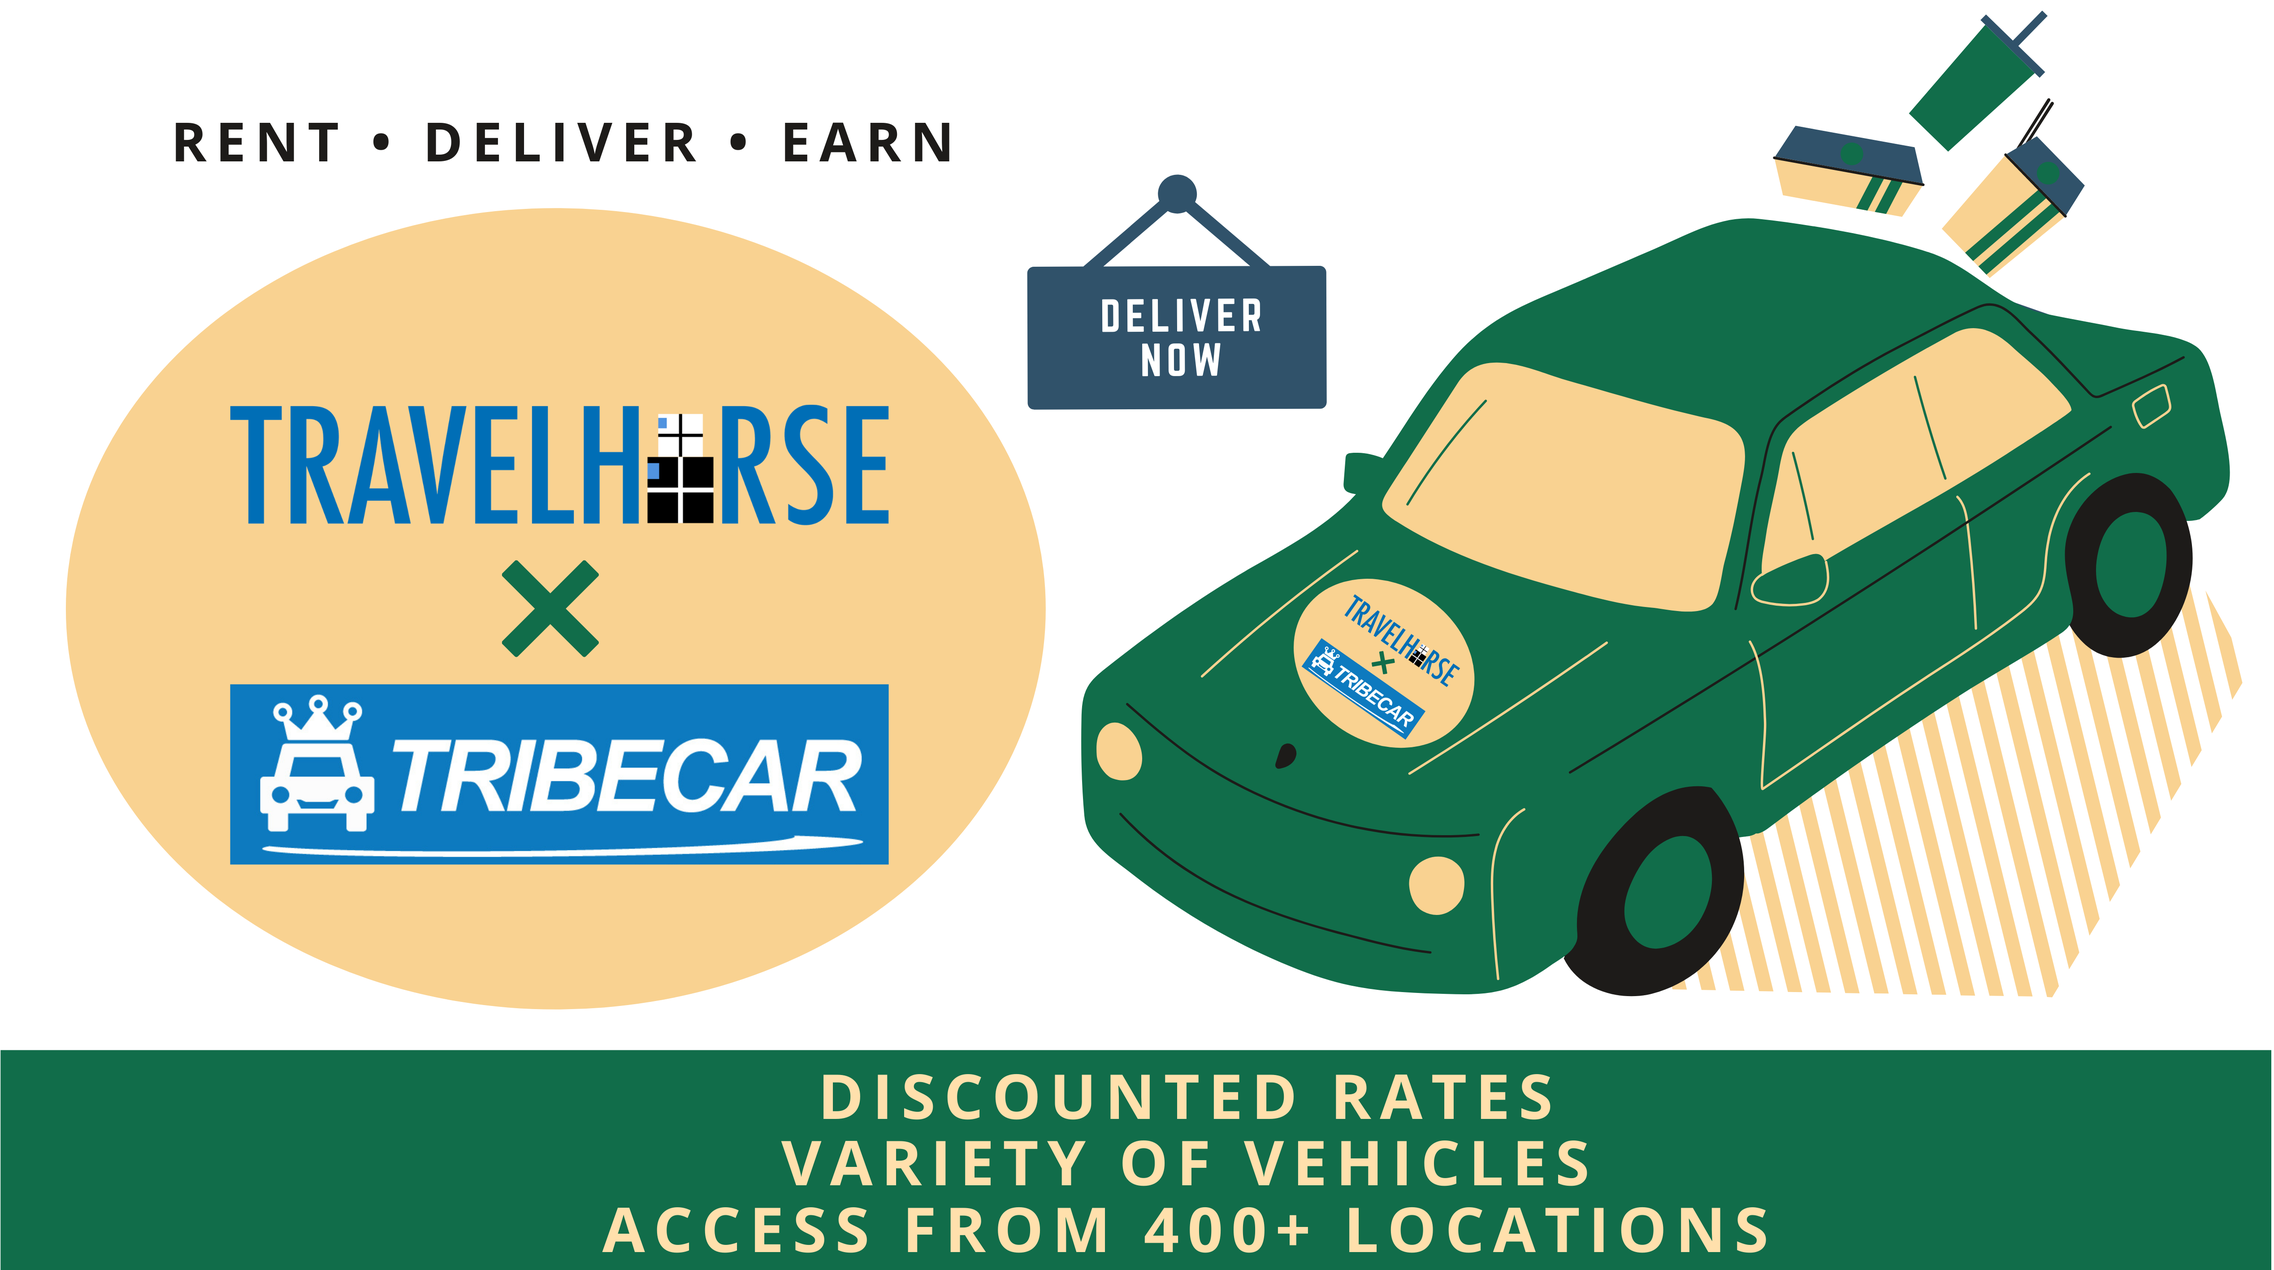
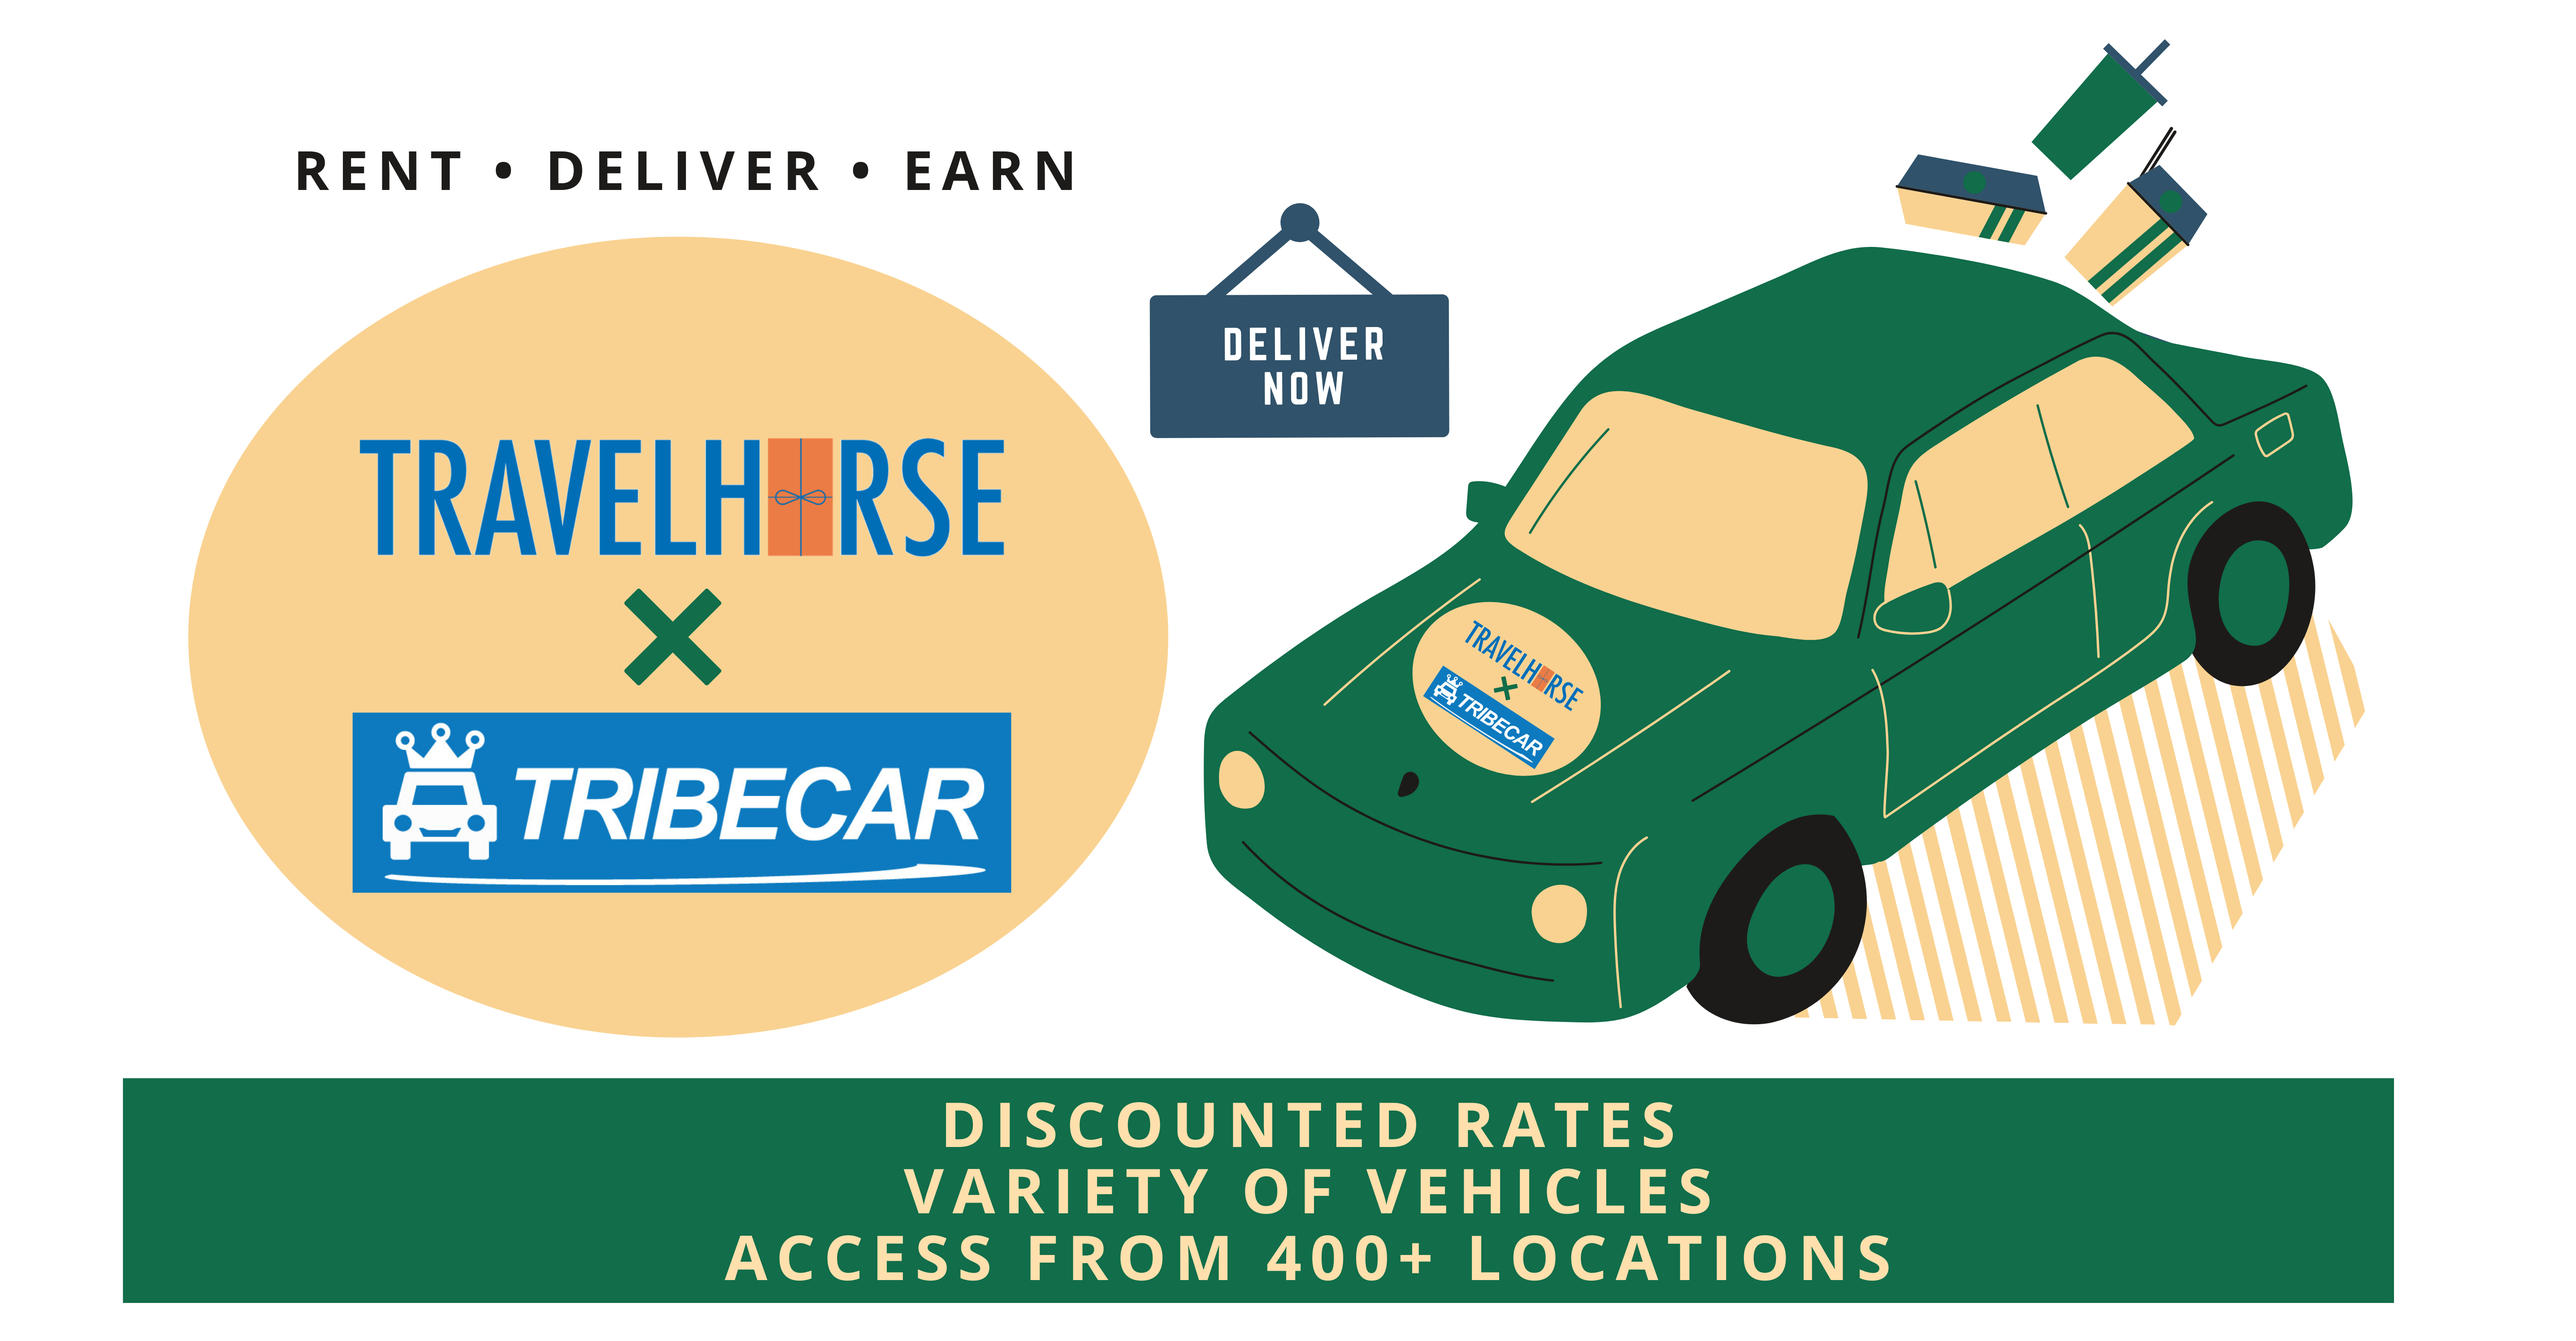
edit tribecars blogpost and covid strip panel

diff --git a/posts/tribecars-partnership.html b/posts/tribecars-partnership.html
@@ -97,8 +97,7 @@
         text-align: center;
         font-weight: 500;
         position: relative;
-        font-family: 'Montserrat', sans-serif;">COVID 19: As an essential service, we're here to help with our Dash
-          services</h4>
+        font-family: 'Montserrat', sans-serif;">Read about our revamped company logo <a href="https://blog.travelhorse.co/posts/redesigning-travelhorse-logo">here</a>.</h4>
       </header>
     </div>
 
@@ -125,7 +124,7 @@
         <div class="row">
           <div class="col-lg-9 text-center text-lg-left">
             <h3 class="cta-title">Travelhorse and Tribecars Launch Rent and Earn Program</h3>
-            <p class="cta-text"> 31 December 2020 / Thursday / 1:00 pm</p>
+            <p class="cta-text"> 14 January 2021 / Thursday / 1:00 pm</p>
           </div>
 
           <!-- <div class="col-lg-3 cta-btn-container text-center">

diff --git a/index.html b/index.html
@@ -114,8 +114,7 @@
       text-align: center;
       font-weight: 500;
       position: relative;
-      font-family: 'Montserrat', sans-serif;">COVID 19: As an essential service, we're here to help with our Dash
-          services</h4>
+      font-family: 'Montserrat', sans-serif;">Read about our revamped company logo <a href="https://blog.travelhorse.co/posts/redesigning-travelhorse-logo">here</a>.</h4>
       </header>
     </div>
 
@@ -221,7 +220,7 @@
                   class="img-fluid" alt=""></a>
               <div class="portfolio-info">
                 <h4><a href="posts/tribecars-partnership">Read More</a></h4>
-                <p>December 31, 2020, 1:00 pm</p>
+                <p>January 14, 2021, 1:00 pm</p>
               </div>
             </div>
             <h3 class="portfolio-title">Travelhorse and Tribecars Launch Rent and Earn Program</h3>

diff --git a/posts/redesigning-travelhorse-logo.html b/posts/redesigning-travelhorse-logo.html
@@ -109,8 +109,7 @@
         text-align: center;
         font-weight: 500;
         position: relative;
-        font-family: 'Montserrat', sans-serif;">COVID 19: As an essential service, we're here to help with our Dash
-          services</h4>
+        font-family: 'Montserrat', sans-serif;">Read about our revamped company logo <a href="https://blog.travelhorse.co/posts/redesigning-travelhorse-logo">here</a>.</h4>
       </header>
     </div>
 

diff --git a/posts/tribe-tours-partnership.html b/posts/tribe-tours-partnership.html
@@ -110,8 +110,7 @@
         text-align: center;
         font-weight: 500;
         position: relative;
-        font-family: 'Montserrat', sans-serif;">COVID 19: As an essential service, we're here to help with our Dash
-          services</h4>
+        font-family: 'Montserrat', sans-serif;">Read about our revamped company logo <a href="https://blog.travelhorse.co/posts/redesigning-travelhorse-logo">here</a>.</h4>
       </header>
     </div>
 

diff --git a/posts/post-template.html b/posts/post-template.html
@@ -97,8 +97,7 @@
         text-align: center;
         font-weight: 500;
         position: relative;
-        font-family: 'Montserrat', sans-serif;">COVID 19: As an essential service, we're here to help with our Dash
-          services</h4>
+        font-family: 'Montserrat', sans-serif;">Read about our revamped company logo <a href="https://blog.travelhorse.co/posts/redesigning-travelhorse-logo">here</a>.</h4>
       </header>
     </div>
 

diff --git a/posts/business-focus-post-pandemic.html b/posts/business-focus-post-pandemic.html
@@ -98,8 +98,7 @@
       text-align: center;
       font-weight: 500;
       position: relative;
-      font-family: 'Montserrat', sans-serif;">COVID 19: As an essential service, we're here to help with our Dash
-          services</h4>
+      font-family: 'Montserrat', sans-serif;">Read about our revamped company logo <a href="https://blog.travelhorse.co/posts/redesigning-travelhorse-logo">here</a>.</h4>
       </header>
     </div>
 

diff --git a/posts/food-delivery-booster-package.html b/posts/food-delivery-booster-package.html
@@ -98,8 +98,7 @@
       text-align: center;
       font-weight: 500;
       position: relative;
-      font-family: 'Montserrat', sans-serif;">COVID 19: As an essential service, we're here to help with our Dash
-          services</h4>
+      font-family: 'Montserrat', sans-serif;">Read about our revamped company logo <a href="https://blog.travelhorse.co/posts/redesigning-travelhorse-logo">here</a>.</h4>
       </header>
     </div>
 

diff --git a/posts/when-should-businesses-focus-post-coronavirus.html b/posts/when-should-businesses-focus-post-coronavirus.html
@@ -98,8 +98,7 @@
       text-align: center;
       font-weight: 500;
       position: relative;
-      font-family: 'Montserrat', sans-serif;">COVID 19: As an essential service, we're here to help with our Dash
-          services</h4>
+      font-family: 'Montserrat', sans-serif;">Read about our revamped company logo <a href="https://blog.travelhorse.co/posts/redesigning-travelhorse-logo">here</a>.</h4>
       </header>
     </div>
 
